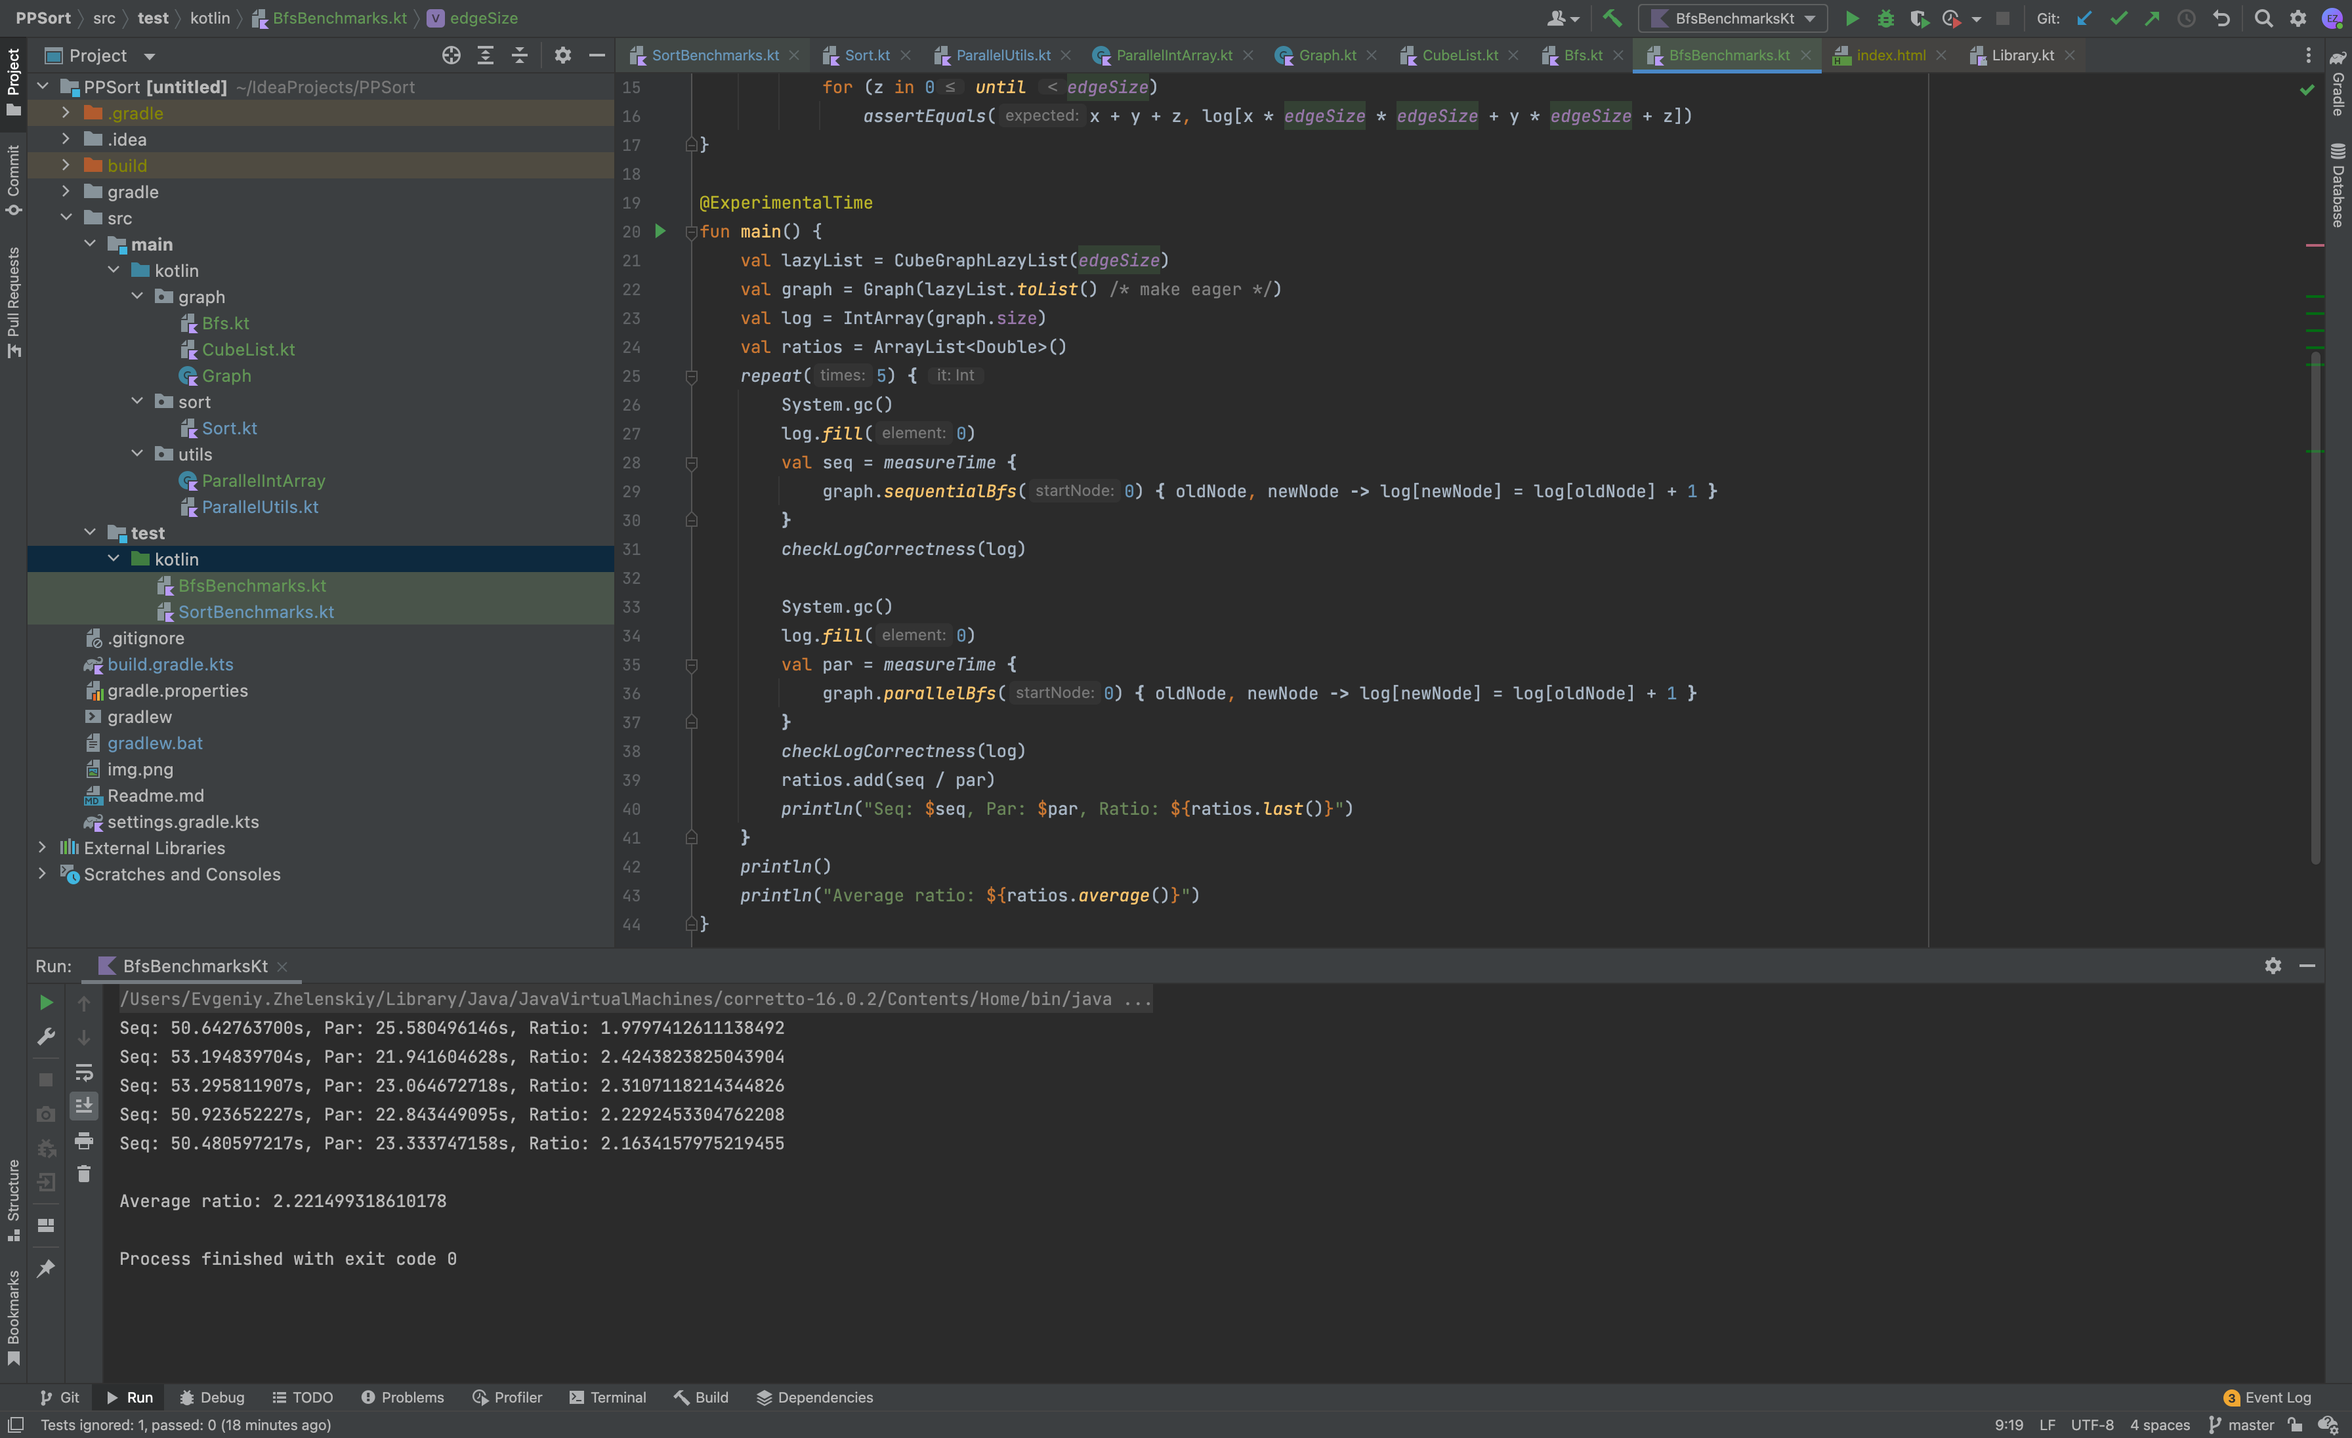
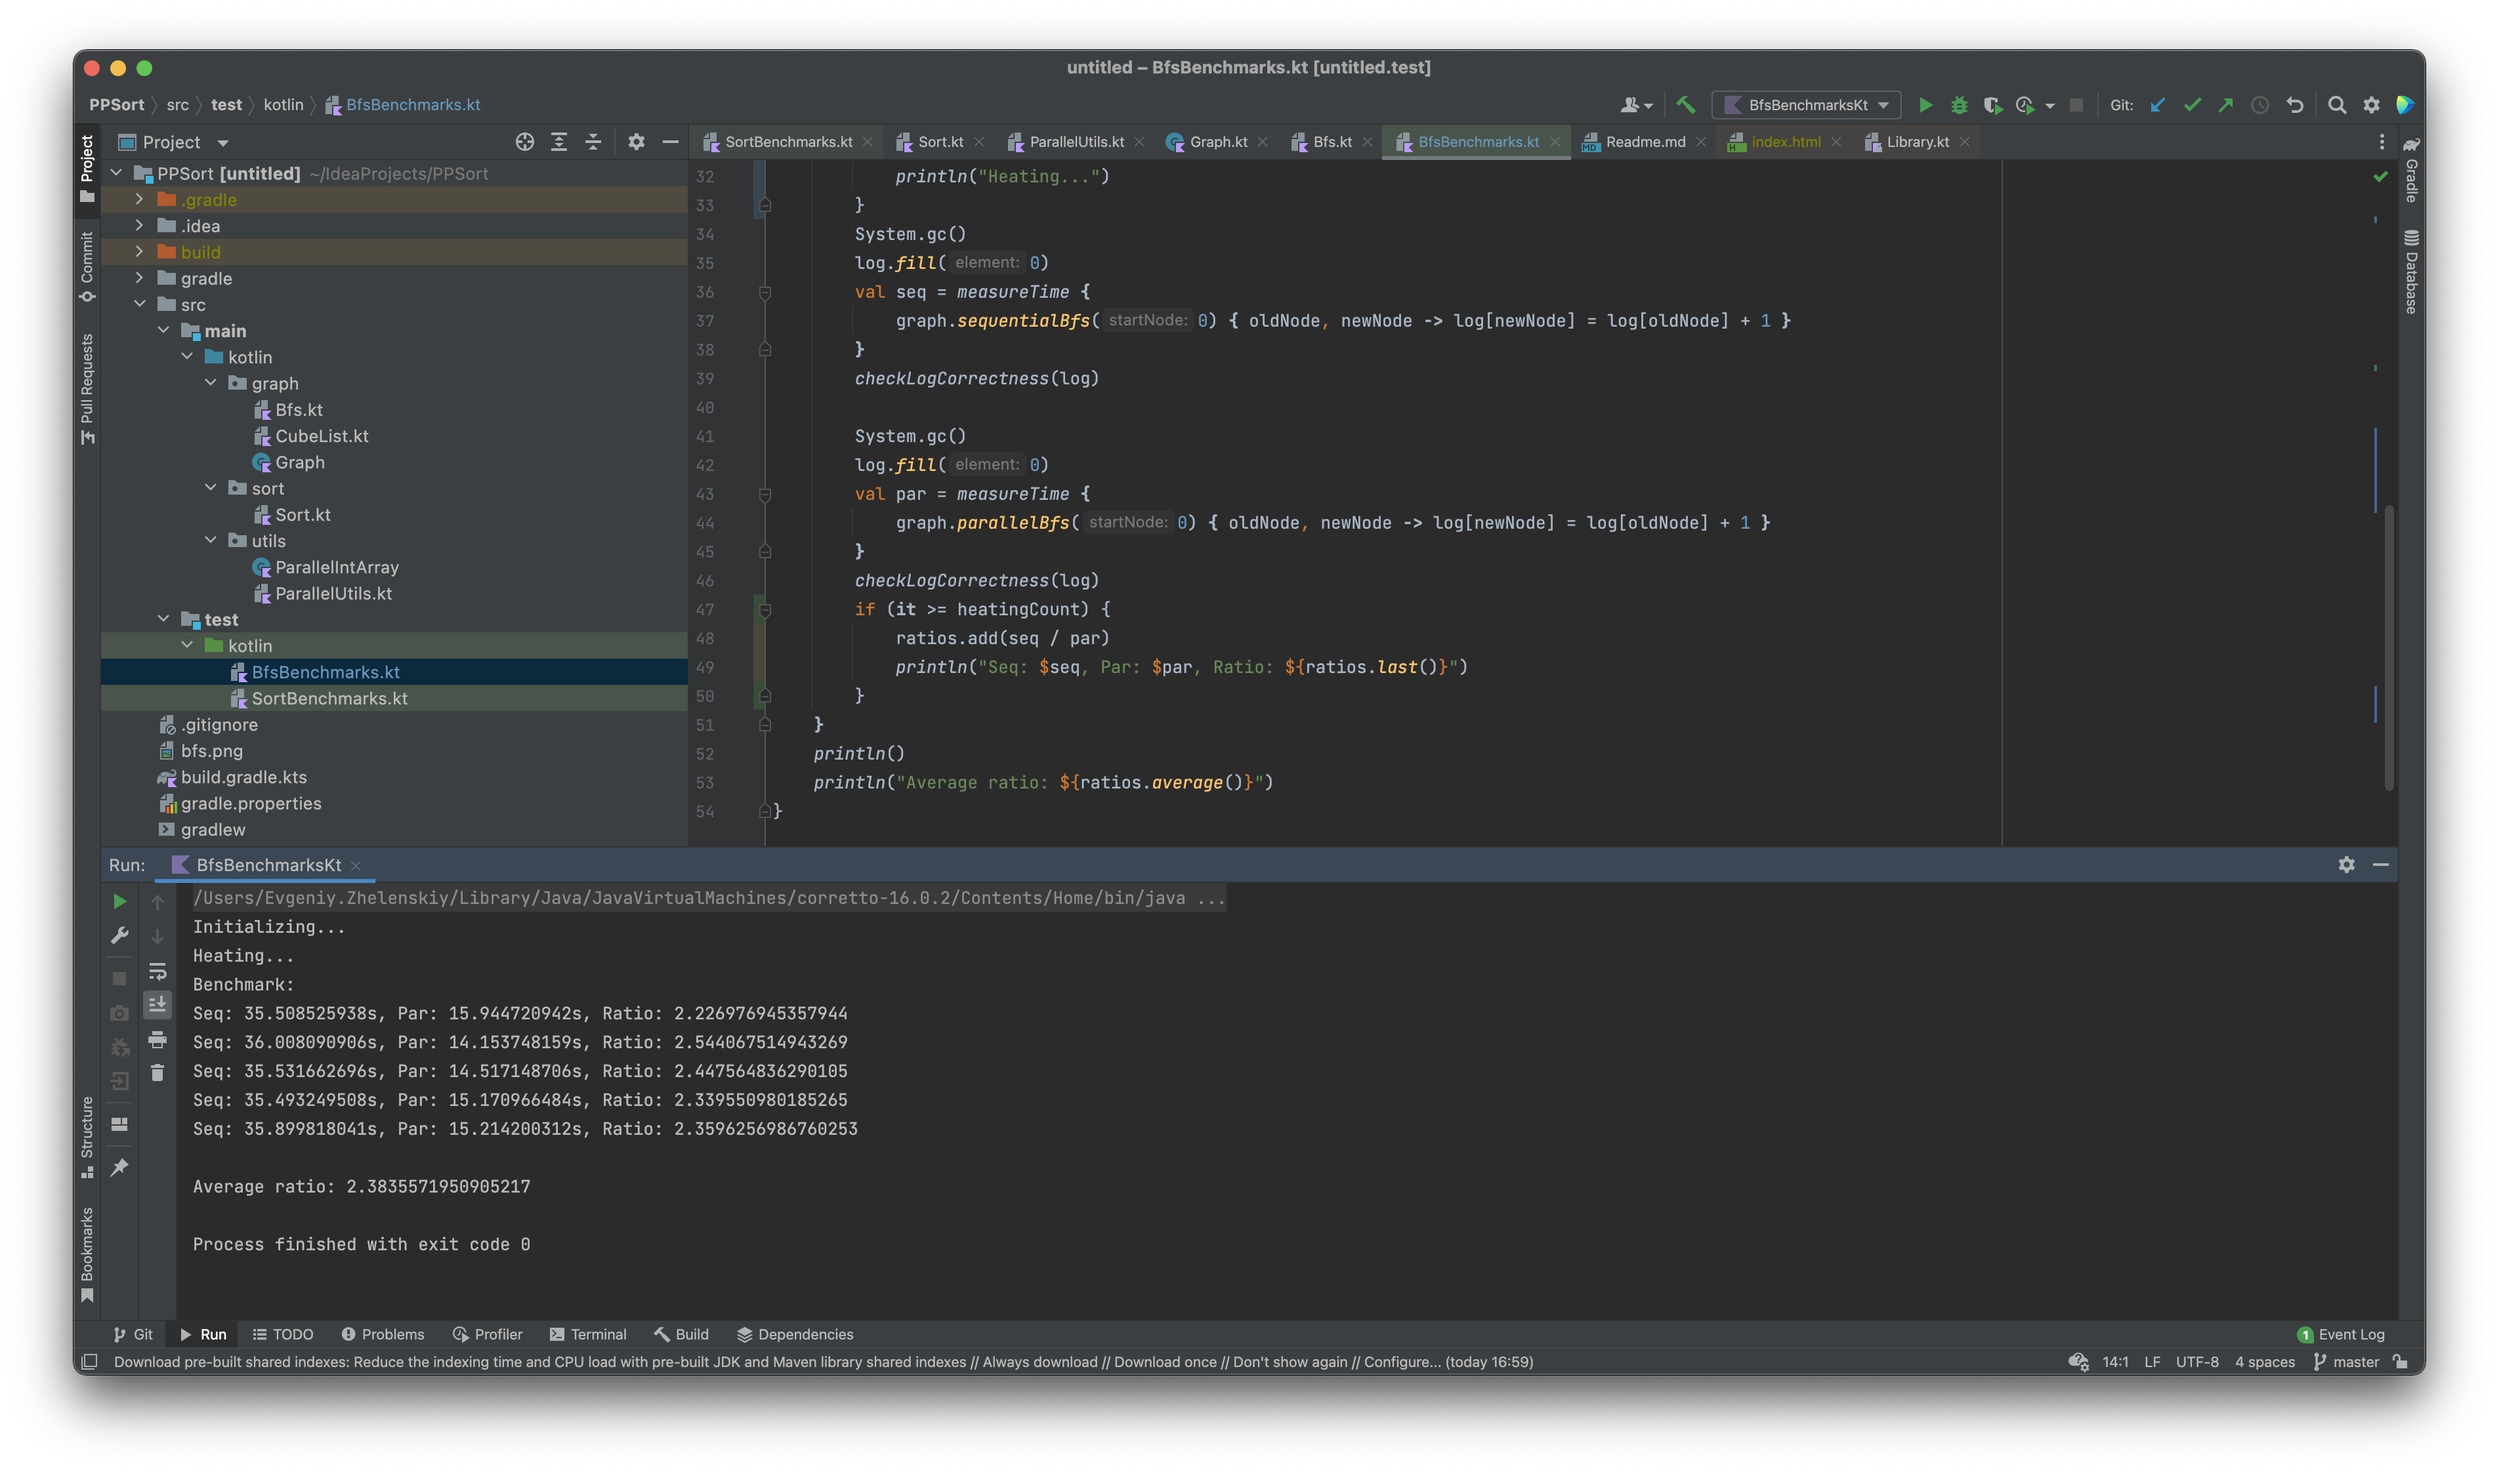
Heating is added to BFS benchmark

diff --git a/src/test/kotlin/BfsBenchmarks.kt b/src/test/kotlin/BfsBenchmarks.kt
@@ -6,7 +6,7 @@ import kotlin.test.assertEquals
 import kotlin.time.ExperimentalTime
 import kotlin.time.measureTime
 
-private const val edgeSize = 500
+private const val edgeSize = 450
 
 private fun checkLogCorrectness(log: IntArray) {
     assertEquals(log.size, edgeSize * edgeSize * edgeSize)
@@ -18,11 +18,19 @@ private fun checkLogCorrectness(log: IntArray) {
 
 @ExperimentalTime
 fun main() { // run with -Xmx20G
+    println("Initializing...")
     val lazyList = CubeGraphLazyList(edgeSize)
     val graph = Graph(lazyList.toList() /* make eager */)
     val log = IntArray(graph.size)
     val ratios = ArrayList<Double>()
-    repeat(5) {
+    val heatingCount = 2
+    val benchmarkCount = 5
+    repeat(heatingCount + benchmarkCount) {
+        if (it == heatingCount) {
+            println("Benchmark:")
+        } else if (it == 0) {
+            println("Heating...")
+        }
         System.gc()
         log.fill(0)
         val seq = measureTime {
@@ -36,8 +44,10 @@ fun main() { // run with -Xmx20G
             graph.parallelBfs(0) { oldNode, newNode -> log[newNode] = log[oldNode] + 1 }
         }
         checkLogCorrectness(log)
-        ratios.add(seq / par)
-        println("Seq: $seq, Par: $par, Ratio: ${ratios.last()}")
+        if (it >= heatingCount) {
+            ratios.add(seq / par)
+            println("Seq: $seq, Par: $par, Ratio: ${ratios.last()}")
+        }
     }
     println()
     println("Average ratio: ${ratios.average()}")

diff --git a/Readme.md b/Readme.md
@@ -22,13 +22,16 @@ Every even row is temporary parallel or sequential result time.
 
 My BFS output is:
 ```kotlin
-Seq: 50.642763700s, Par: 25.580496146s, Ratio: 1.9797412611138492
-Seq: 53.194839704s, Par: 21.941604628s, Ratio: 2.4243823825043904
-Seq: 53.295811907s, Par: 23.064672718s, Ratio: 2.3107118214344826
-Seq: 50.923652227s, Par: 22.843449095s, Ratio: 2.2292453304762208
-Seq: 50.480597217s, Par: 23.333747158s, Ratio: 2.1634157975219455
+Initializing...
+Heating...
+Benchmark:
+Seq: 35.508525938s, Par: 15.944720942s, Ratio: 2.226976945357944
+Seq: 36.008090906s, Par: 14.153748159s, Ratio: 2.544067514943269
+Seq: 35.531662696s, Par: 14.517148706s, Ratio: 2.447564836290105
+Seq: 35.493249508s, Par: 15.170966484s, Ratio: 2.339550980185265
+Seq: 35.899818041s, Par: 15.214200312s, Ratio: 2.3596256986760253
 
-Average ratio: 2.221499318610178
+Average ratio: 2.3835571950905217
 ```
 
 ![Screen](bfs.png "Illustration")
